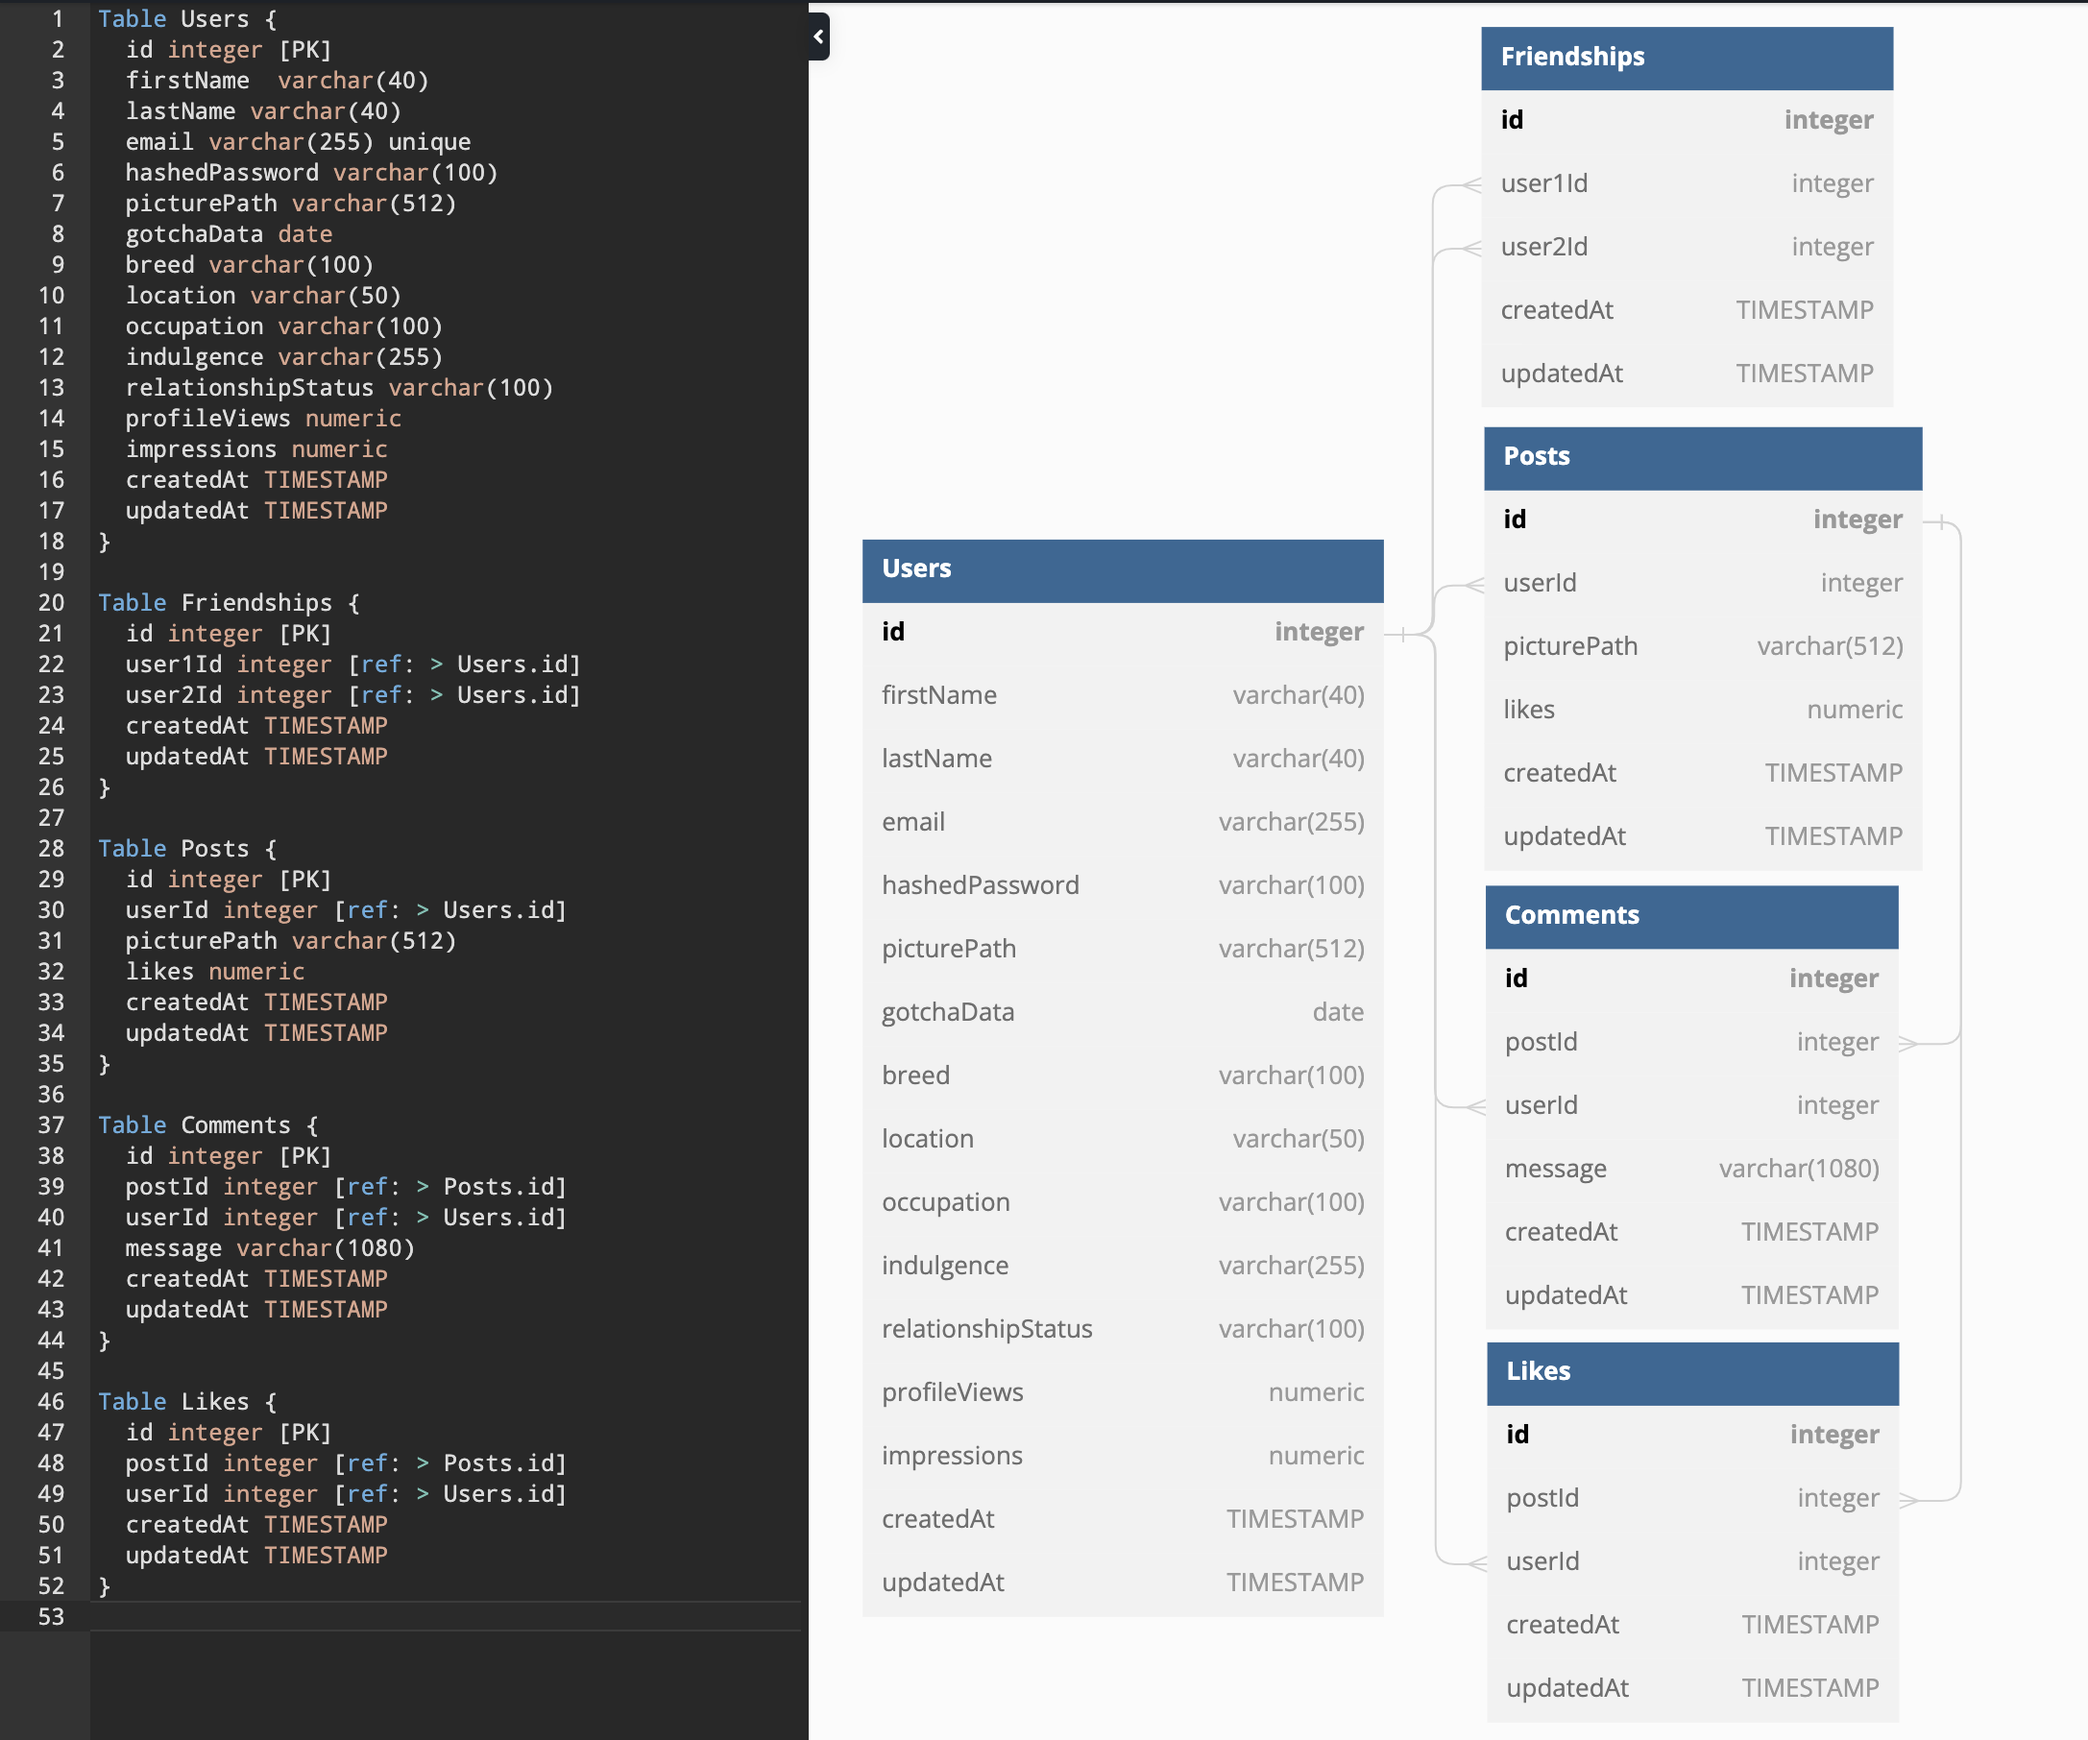
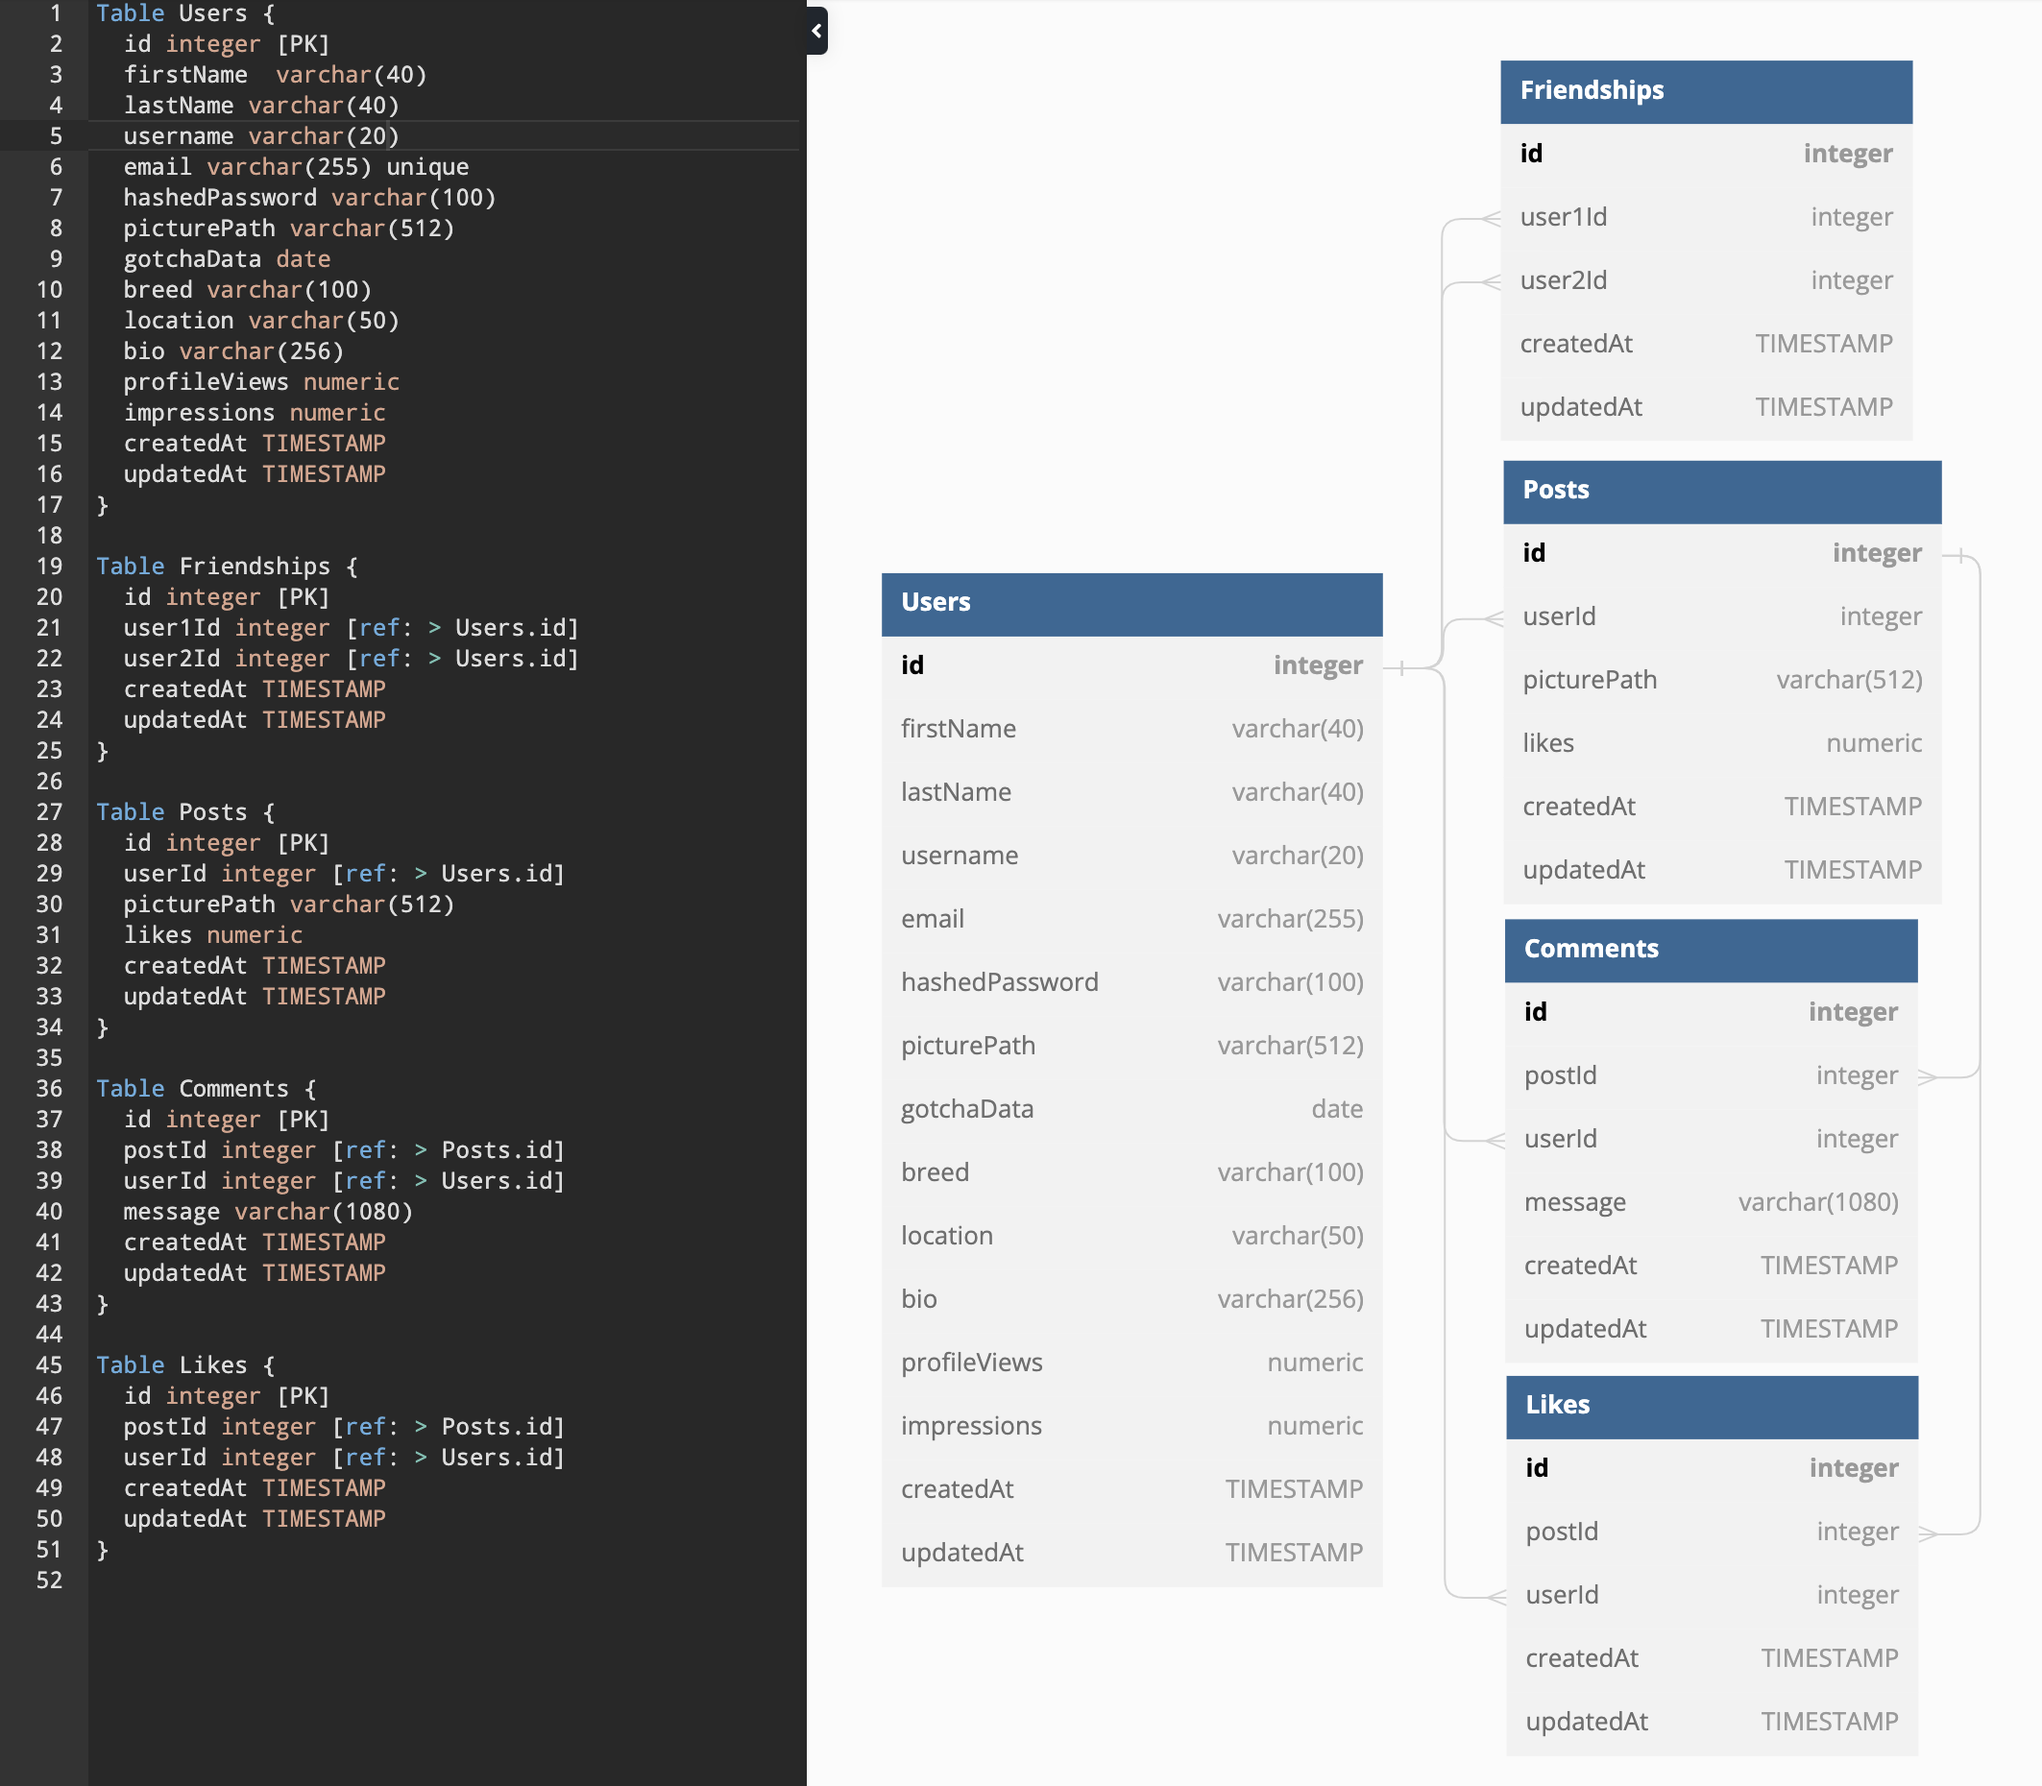
Updated db schema diagram to latest scope of project. Modified User model to reflect changes. Reran migrations.

diff --git a/backend/db/models/user.js b/backend/db/models/user.js
@@ -26,6 +26,18 @@ module.exports = (sequelize, DataTypes) => {
         }
       },
     },
+    username: { 
+      type: DataTypes.STRING, 
+      allowNull: false, 
+      validate: {
+        len: [3, 20], 
+        isNotEmail(value) { 
+          if (Validator.isEmail(value)) { 
+            throw new Error('Cannot be an email.'); 
+          }
+        }
+      },
+    }, 
     email: { 
       type: DataTypes.STRING, 
       allowNull: false, 
@@ -61,17 +73,12 @@ module.exports = (sequelize, DataTypes) => {
       type: DataTypes.STRING, 
       allowNull: false,  
     },
-    occupation: { 
-      type: DataTypes.STRING,  
+    bio: { 
+      type: DataTypes.STRING, 
       allowNull: false,  
-    },
-    indulgence: { 
-      type: DataTypes.STRING, 
-      allowNull: false
-    },
-    relationshipStatus: { 
-      type: DataTypes.STRING, 
-      allowNull: false
+      validate: {
+        len: [20, 256]
+      },
     },
     profileViews: { 
       type: DataTypes.INTEGER, 
@@ -85,7 +92,7 @@ module.exports = (sequelize, DataTypes) => {
   {
     defaultScope: { 
       attributes: { 
-        exclude: ['hashedPassword', 'email', 'picturePath', 'gotchaDate', 'breed', 'location', 'occupation', 'indulgence', 'relationshipStatus', 'profileViews', 'impressions', 'createdAt', 'updatedAt']
+        exclude: ['hashedPassword', 'email', 'username', 'picturePath', 'gotchaDate', 'breed', 'location', 'bio', 'profileViews', 'impressions', 'createdAt', 'updatedAt']
       }
     }, 
     scopes: { 
@@ -175,29 +182,38 @@ module.exports = (sequelize, DataTypes) => {
     return User.scope('currentUser').findByPk(id); 
   };
 
-  User.login = async function({ email, password }) { 
+  User.login = async function({ credential, password }) { 
     // note: this is the only time we request information from the db using the widest scope - 'loginUser'
+    const { Op } = require('sequelize'); 
     const user = await User.scope('loginUser').findOne({ 
-      where: { email: email }
+      where: { 
+        [Op.or]: { 
+          username: credential, 
+          email: credential
+        }  
+      }
     }); 
 
     if (user && user.validatePassword(password)) {
-      // note: data sent back is scoped much more tightly
+      // note: data actually sent back is scoped much more tightly
       return await User.scope('currentUser').findByPk(user.id);
     }; 
   };
 
-  User.signup = async function({ firstName, lastName, email, password, picturePath, location, occupation, viewedProfile, impressions }) { 
+  User.signup = async function({ firstName, lastName, username, email, password, picturePath, gotchaDate, breed, location, bio, profileViews, impressions }) { 
     const hashedPassword = bcrypt.hashSync(password); 
     const user = await User.create({ 
       firstName, 
       lastName, 
+      username, 
       email, 
       hashedPassword, 
       picturePath, 
+      gotchaDate, 
+      breed, 
       location, 
-      occupation, 
-      viewedProfile, 
+      bio,  
+      profileViews, 
       impressions
     });
     

diff --git a/backend/db/migrations/20230103234002-create-user.js b/backend/db/migrations/20230103234002-create-user.js
@@ -16,6 +16,10 @@ module.exports = {
         type: Sequelize.STRING, 
         allowNull: false
       },
+      username: { 
+        type: Sequelize.STRING, 
+        allowNull: false
+      }, 
       email: {
         type: Sequelize.STRING, 
         allowNull: false, 
@@ -41,15 +45,7 @@ module.exports = {
         type: Sequelize.STRING, 
         allowNull: false
       },
-      occupation: {
-        type: Sequelize.STRING, 
-        allowNull: false
-      },
-      indulgence: { 
-        type: Sequelize.STRING, 
-        allowNull: false
-      },
-      relationshipStatus: { 
+      bio: {
         type: Sequelize.STRING, 
         allowNull: false
       },
